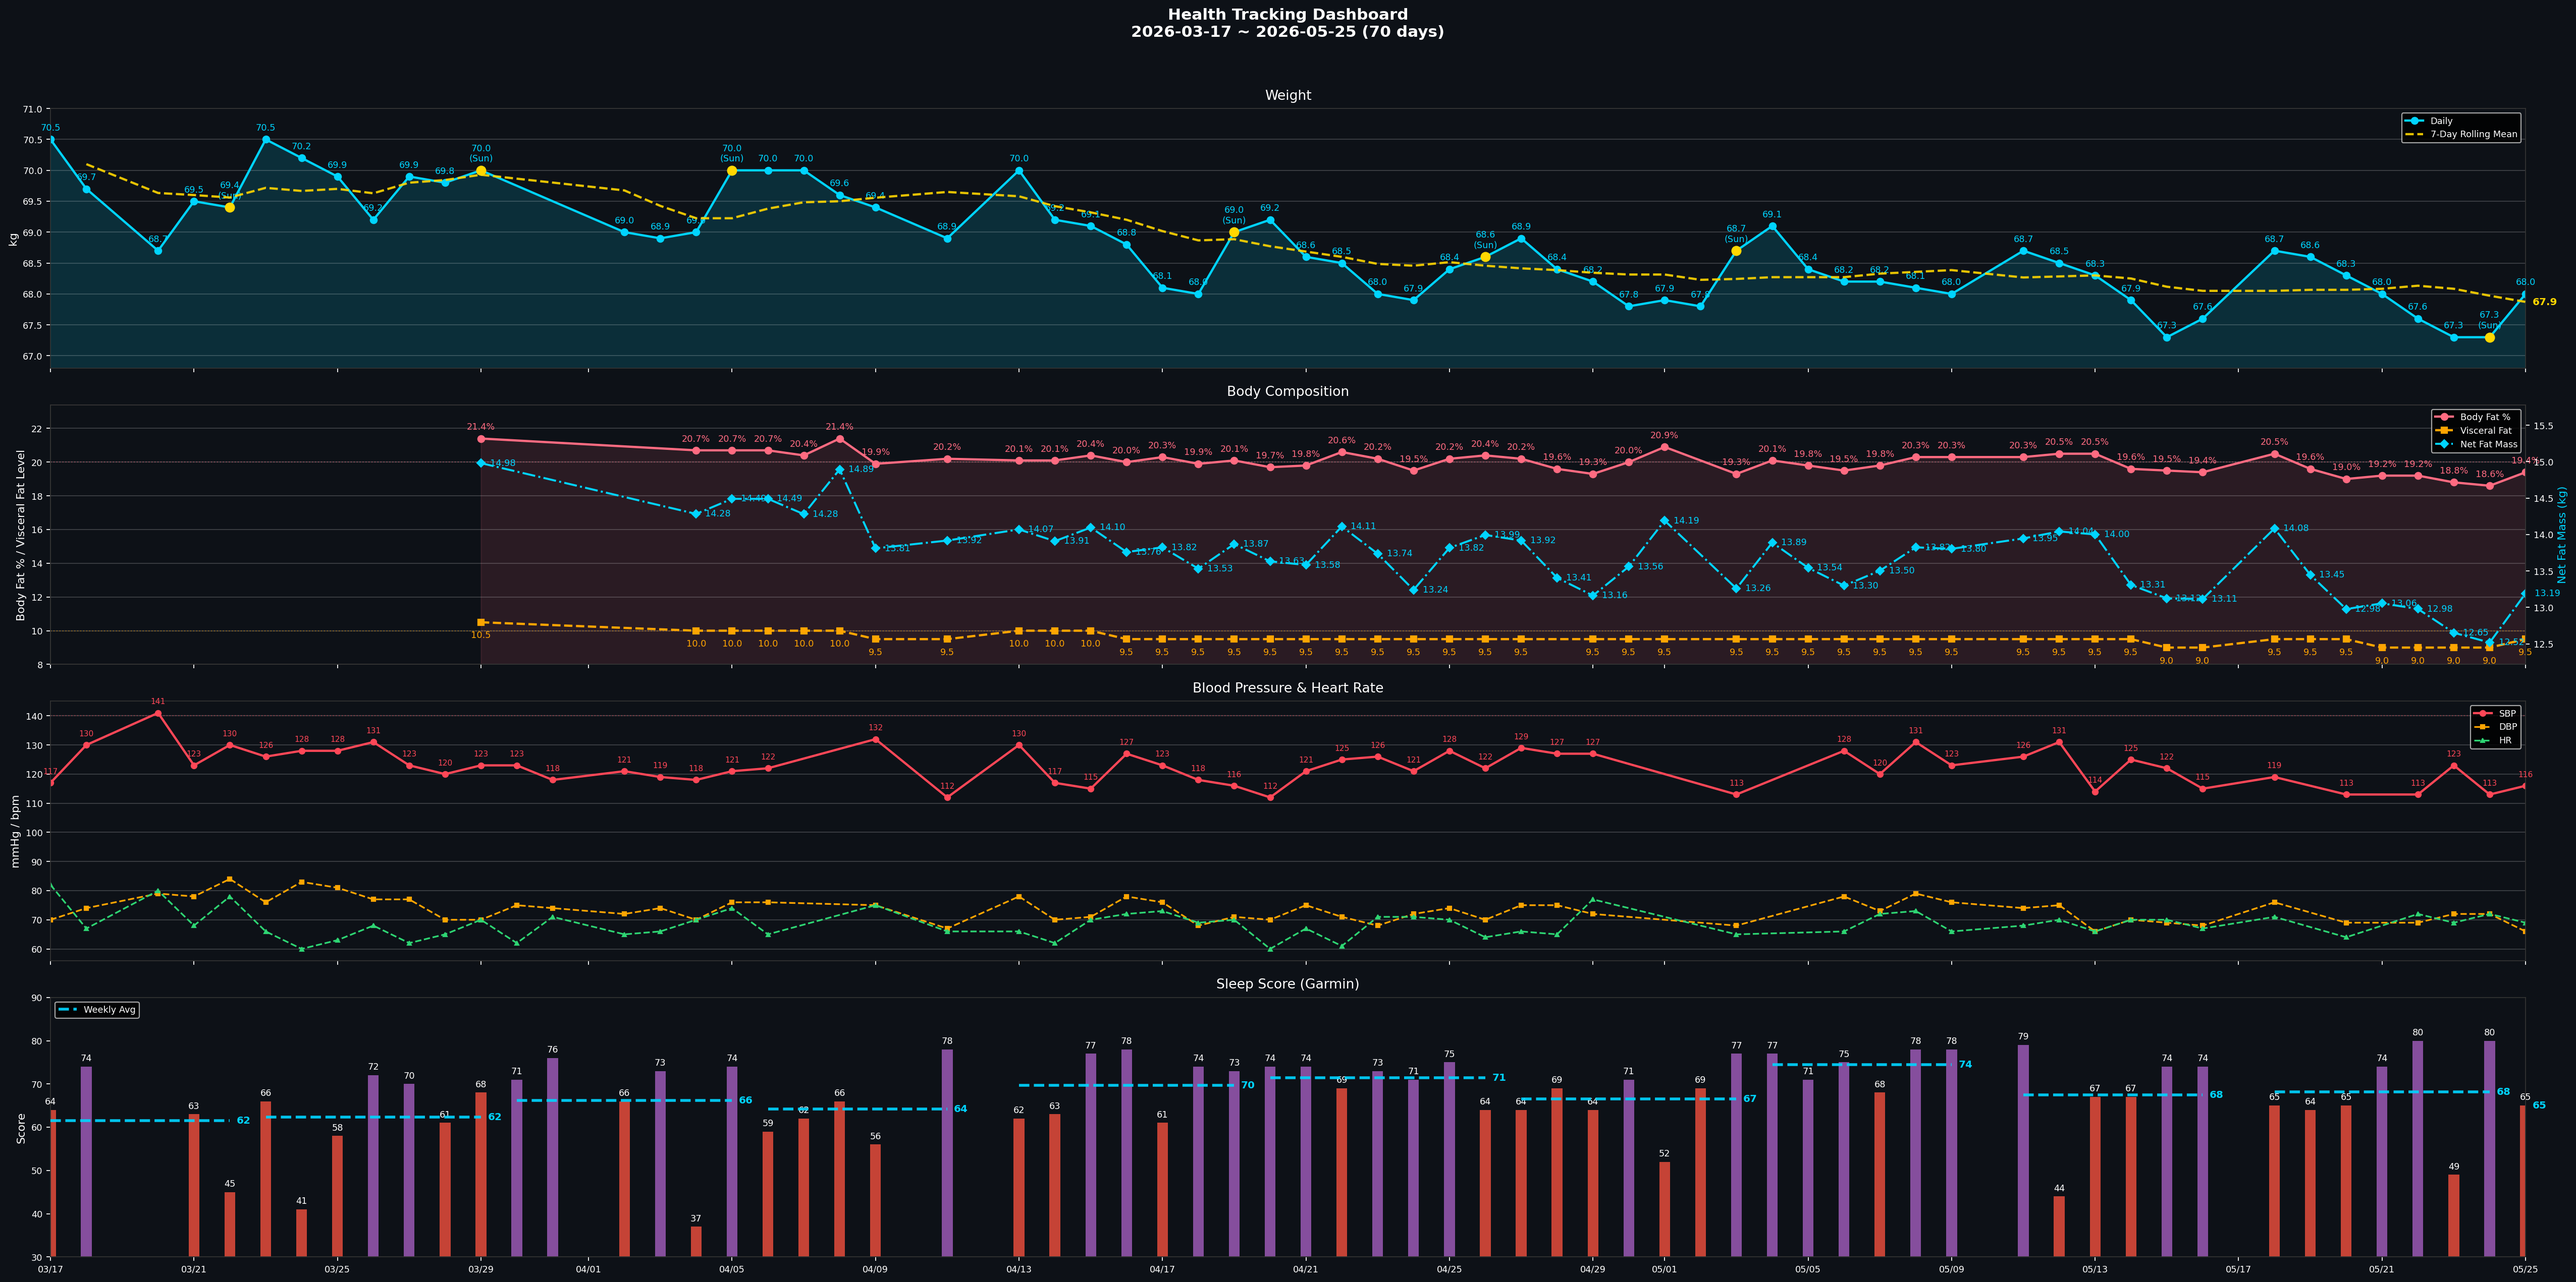
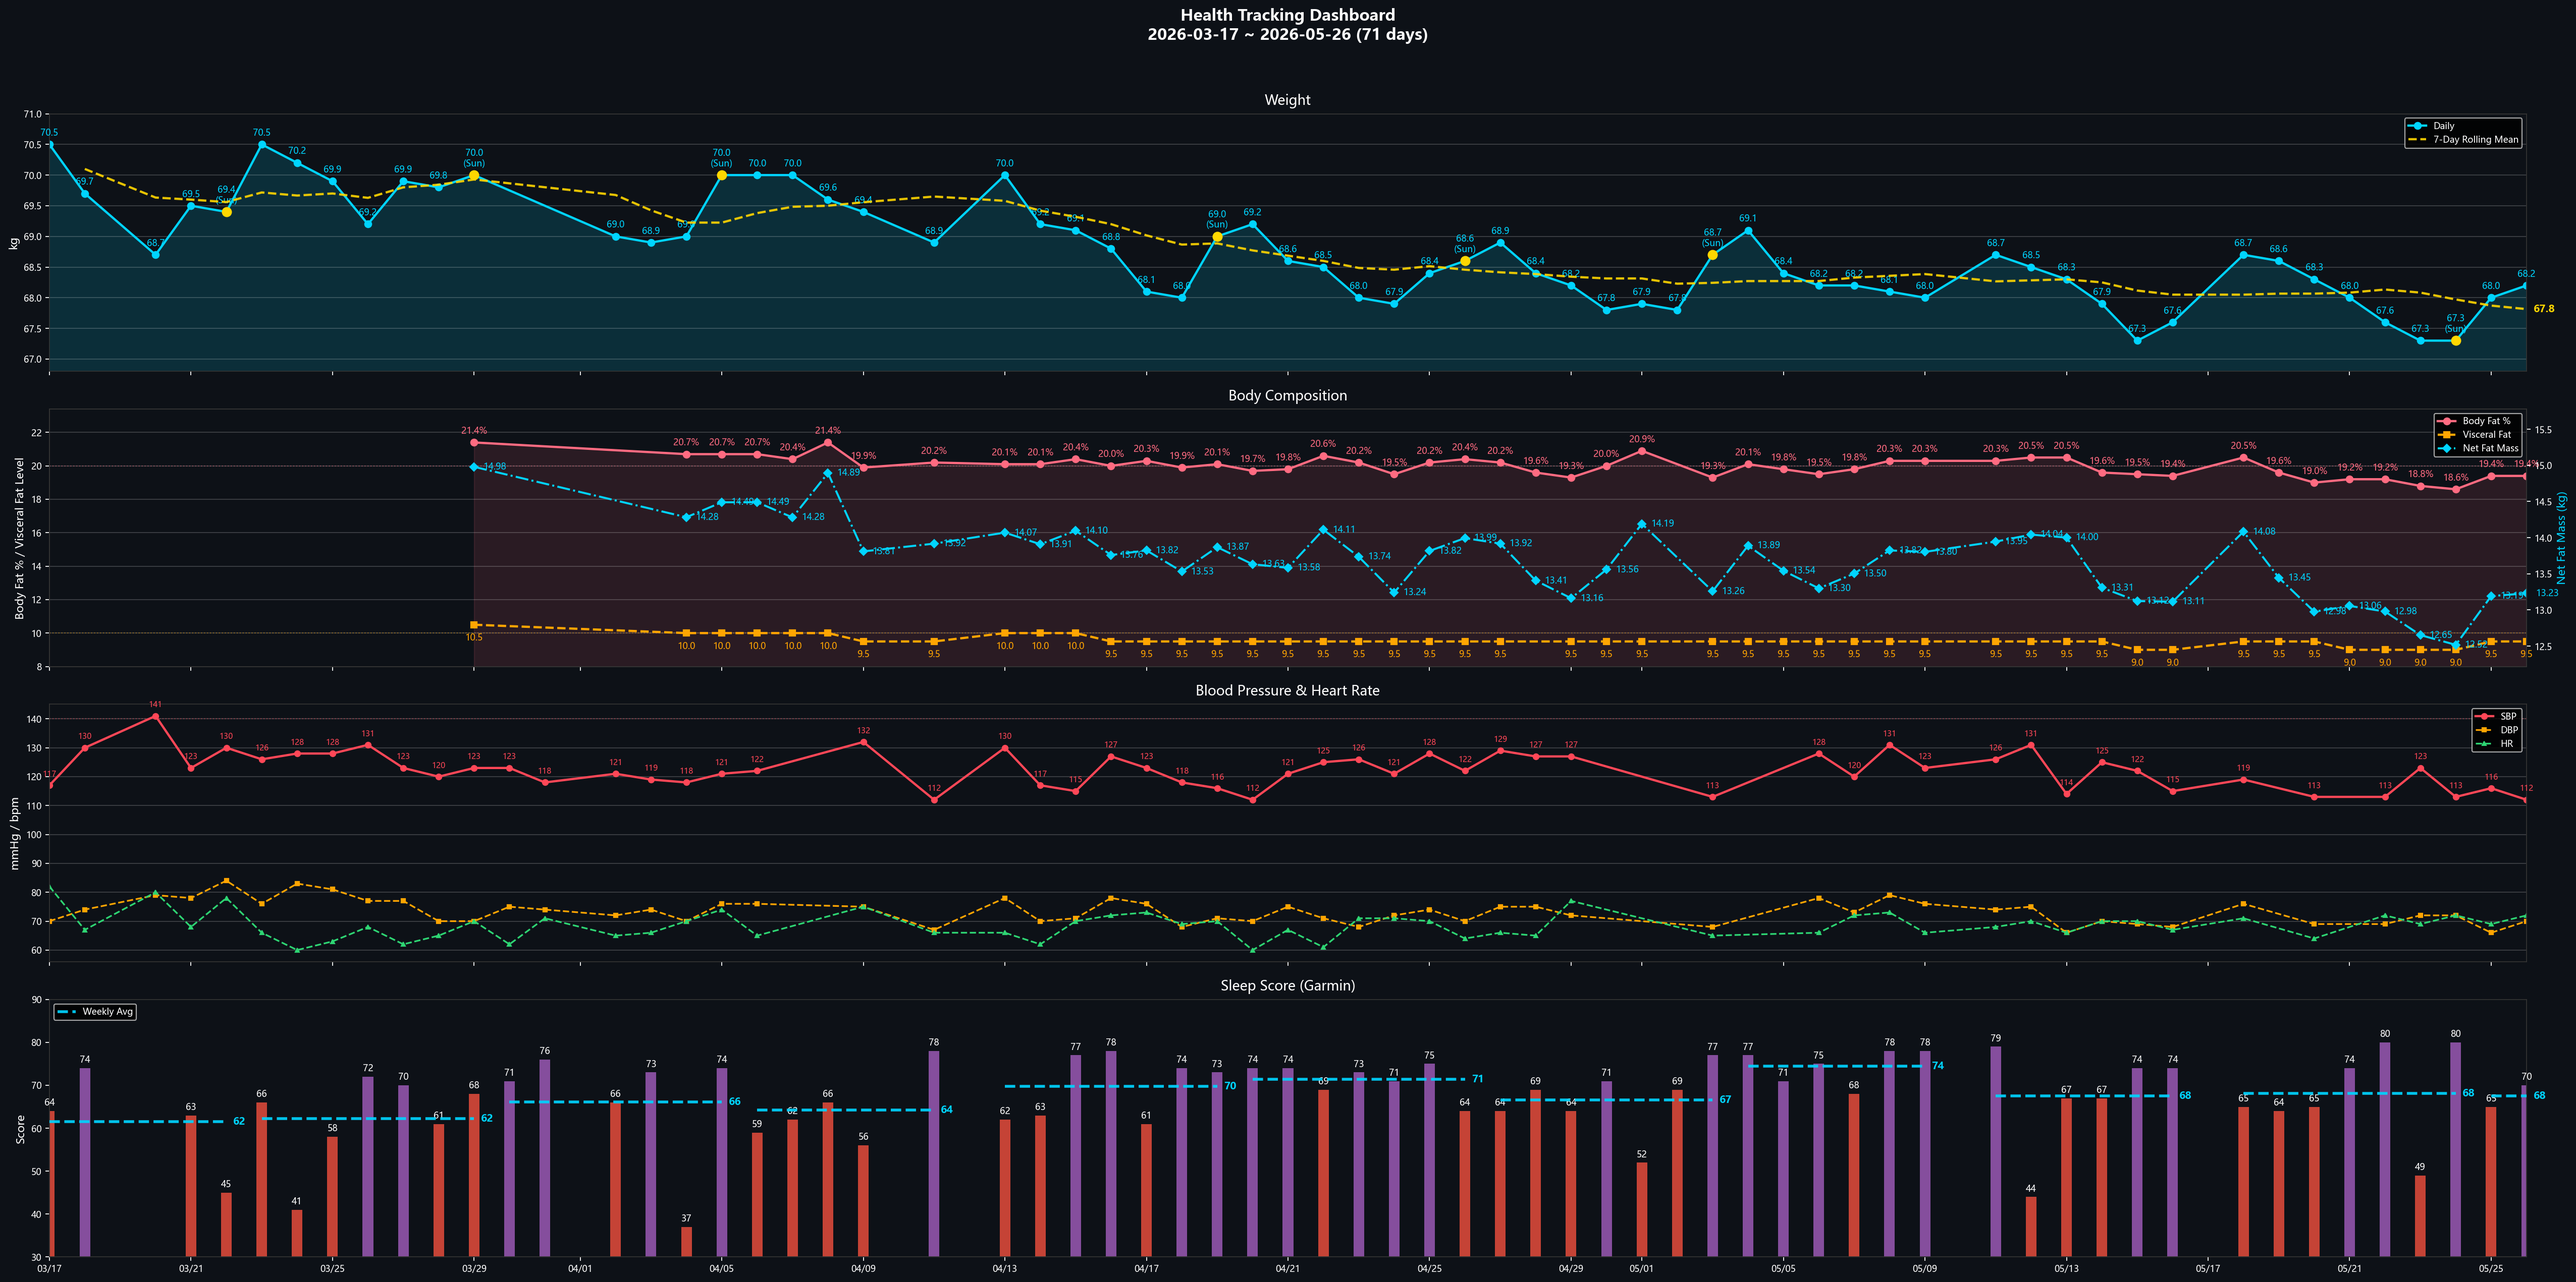
daily check-in 2026-05-26：體重 68.2kg、BP 112/70、Sleep 70
- 更新 daily/weekly W22 數據
- 修正 daily-command rule：移除過時 +8h 時鐘校正
- SpO2 近 7 晚 6/7 < 88%；記錄棉被窒悶行為性醒來
- 重生 dashboard、同步 data.js、月份歸檔

diff --git a/data.js b/data.js
@@ -14,8 +14,8 @@ window.HC_DATA = {
     lede:    { en: "Sleep, BP, lipids, uric acid — one shared metabolic root. Lifestyle stacks first; medication only after lifestyle plateaus.",
                zh: "睡眠、血壓、血脂、尿酸——共享同一個代謝根源。生活方式介入優先，等到效果平台期再考慮藥物。" },
     progressLbl: { en: "Weight progress · 70 → 65 kg", zh: "體重進度 · 70 → 65 公斤" },
-    progressMeta: { en: "Day 70 · 67.3 kg · Sat official (5/23)", zh: "第 70 天 · 67.3 公斤 · 週六正式（5/23）" },
-    startDate: { en: "Start date · Mar 17, 2026 · Last sync 5/25", zh: "起始日期 · 2026 年 3 月 17 日 · 最後同步 5/25" },
+    progressMeta: { en: "Day 71 · 67.3 kg · Sat official (5/23)", zh: "第 71 天 · 67.3 公斤 · 週六正式（5/23）" },
+    startDate: { en: "Start date · Mar 17, 2026 · Last sync 5/26", zh: "起始日期 · 2026 年 3 月 17 日 · 最後同步 5/26" },
     startWeight: 70,
     targetWeight: 65,
     currentWeight: 67.3,
@@ -44,13 +44,13 @@ window.HC_DATA = {
     {
       sys: "heart", name: { en: "Blood Pressure", zh: "血壓" },
       val: "116/72", unit: "mmHg",
-      delta: { en: "W21 weekly avg (5 days) · target met (<130) · last 116/66 (5/25)", zh: "W21 週均（5 天）· 已達標 (<130) · 最新 116/66 (5/25)" },
+      delta: { en: "W21 weekly avg (5 days) · target met (<130) · last 112/70 (5/26)", zh: "W21 週均（5 天）· 已達標 (<130) · 最新 112/70 (5/26)" },
       cadence: { en: "Daily · weekly avg", zh: "每日 · 週均" },
       status: "ok",
     },
     {
       sys: "sleep", name: { en: "Sleep Score", zh: "睡眠分數" },
-      val: "65", unit: "Garmin",
+      val: "70", unit: "Garmin",
       delta: { en: "5/4 · OSA flag: T90 18.4% (severe)", zh: "5/4 · OSA 紅旗：T90 18.4%（重度）" },
       cadence: { en: "Daily · Garmin", zh: "每日 · Garmin" },
       status: "warn",
@@ -918,14 +918,14 @@ window.HC_DATA = {
   tracker: {
     // [SBP, DBP] — gaps filled with prior reading
     bp: [
-      [126,74], [131,75], [114,66], [125,70], [122,69], [115,68], [119,76], [119,76], [113,69], [113,69], [113,69], [123,72], [113,72], [116,66],
+      [131,75], [114,66], [125,70], [122,69], [115,68], [119,76], [119,76], [113,69], [113,69], [113,69], [123,72], [113,72], [116,66], [112,70],
     ],
     // daily weight (kg)
-    weight: [68.7, 68.5, 68.3, 67.9, 67.3, 67.6, 68.7, 68.6, 68.3, 68, 67.6, 67.3, 67.3, 68],
+    weight: [68.5, 68.3, 67.9, 67.3, 67.6, 68.7, 68.6, 68.3, 68, 67.6, 67.3, 67.3, 68, 68.2],
     // Garmin Sleep Score
-    sleep:  [79, 44, 67, 67, 74, 74, 65, 64, 65, 74, 80, 49, 80, 65],
+    sleep:  [44, 67, 67, 74, 74, 65, 64, 65, 74, 80, 49, 80, 65, 70],
     // Body Battery waking
-    bb:     [55, 36, 42, 34, 51, 63, 48, 62, 54, 61, 56, 34, 59, 55],
+    bb:     [36, 42, 34, 51, 63, 48, 62, 54, 61, 56, 34, 59, 55, 53],
     // SpO2 nightly nadir % (last 14 days, parallel to bp/weight/sleep/bb).
     // Earlier nights null until sync_data_js.py backfills; banner only uses trailing values.
     spo2Nadir: [null, null, null, null, null, 84, 79, 87, 85, 84, 84, 86, 82, 84],

diff --git a/reviews/daily/2026-05-26.md b/reviews/daily/2026-05-26.md
@@ -1,0 +1,82 @@
+# 晨間健康紀錄 — 2026-05-26
+
+*3 分鐘。起床後立即完成。記錄，不分析。*
+
+---
+
+## 體重 / 體組成
+
+**今日：68.2 kg**
+**體脂率：19.4 %**
+**內臟脂肪等級：9.5**
+**腰圍 (WHO midpoint)： cm**
+**腰圍 (最大腹圍)： cm**
+
+*每週六早晨為正式體重紀錄（排尿後、進食前；連 5 個工作日後、週末大餐前的真實低點）。其他日可選填。*
+
+---
+
+## 血壓（晨間）
+
+*起床後 1 小時內，上完廁所、進食前。坐下安靜 5 分鐘，連量兩次取第二次。*
+
+| 次數 | 收縮壓 | 舒張壓 | 心率 |
+|------|--------|--------|------|
+| 第一次 | | | |
+| 第二次 | 112 | 70 | 72 |
+
+---
+
+## 睡眠狀態
+
+**Garmin 偵測入睡：** 21:40
+**實際起床：** 04:19
+**中途醒來：** 2 次以上｜原因：網路攝影機觀察到自己抓被子蓋身體、手舉高過程把自己悶在棉被裡，約 1 分鐘後驚醒（行為性窒悶，非單純夜尿/自然醒）
+**Garmin Sleep Score：** 70 / 100
+**Garmin Body Battery 起床值：** 53
+**主觀恢復感：** 3 / 5（1=極度疲憊, 5=精力充沛）
+
+### SpO2 夜間最低（7 晚趨勢）
+
+| 日期 | -6 | -5 | -4 | -3 | -2 | -1 | 今晨 |
+|------|----|----|----|----|----|----|------|
+| 日期 | 05-20 | 05-21 | 05-22 | 05-23 | 05-24 | 05-25 | 05-26 |
+| 最低 % | 84 | 83 | 79 | 81 | 78 | 89 | 87 |
+
+**今晨日均 SpO2：** 96%
+**< 88% 連續晚數：** 1（5/25 89% 中斷；惟近 7 晚有 6 晚 < 88%，OSA 風險背景仍高）
+
+**SpO2 全夜圖（含 hypnogram 條帶）：** ./spo2/spo2_desat_2026-05-26.png
+**SpO2 趨勢圖：** ./spo2/spo2_desat_trend.png
+**SpO2 全夜 Heatmap（Venu 4 cohort）：** ./spo2/spo2_heatmap_all_nights.png
+**SpO2 × 睡眠分期 7 晚疊圖：** ./spo2/spo2_hypnogram_7night_2026-05-26.png
+
+---
+
+## 昨日回顧
+
+**實際飲水量：** 1.80 L（目標 ≥ 2.5L；< 2.0L 警示）
+**昨日活動消耗：** ~43 kcal（cycling 4.2 min 含 BMR；day-level 步數 13,804，活動量充足但結構化運動偏少）
+
+---
+
+## 身體信號
+
+| 部位 | 性質 | 強度 (0-10) |
+|------|------|-------------|
+| — | 清 | 0 |
+
+---
+
+## 今日計畫速記
+
+- [ ] 飲水目標：2.5 L（錨點 09:30 ≥1.0L / 13:30 ≥2.0L / 17:00 截止 2.5L）
+- [ ] 補充品（核心 v2）：早餐 D3+K2+L-Citrulline+益生菌；午/晚餐前 Psyllium；晚餐後魚油 ×4；睡前鎂+酸櫻桃+Glycine
+- [ ] 運動（17:00）：有氧
+- [ ] 活動度/伸展（09:30 + 20:30）
+- [ ] Wind-down（20:00 燈光降 + 螢幕濾鏡，液體截止）；上床 21:30 / 熄燈 22:00
+- [ ] **睡眠安全**：調整棉被/睡姿，避免再度將被子覆蓋口鼻（行為性窒悶可能放大 SpO2 desat）
+
+---
+
+*Filed: reviews/daily/2026-05-26.md*

diff --git a/reviews/weekly/2026-W22.md b/reviews/weekly/2026-W22.md
@@ -31,9 +31,9 @@
 
 |  | 一 | 二 | 三 | 四 | 五 | 六 | 日 |
 |--|----|----|----|----|----|----|-----|
-| 體重 (kg) | 68.0 | | | | | | |
-| 體脂率 (%) | 19.4 | | | | | | |
-| 內臟脂肪 | 9.5 | | | | | | |
+| 體重 (kg) | 68.0 | 68.2 | | | | | |
+| 體脂率 (%) | 19.4 | 19.4 | | | | | |
+| 內臟脂肪 | 9.5 | 9.5 | | | | | |
 | **腰圍 WHO (cm)** | | | | | | | |
 | **腰圍 max (cm)** | | | | | | | |
 
@@ -52,7 +52,7 @@
 | 日期 | 收縮壓 | 舒張壓 | 心率 |
 |------|--------|--------|------|
 | 05-25 (一) | 116 | 66 | 69 |
-| 05-26 (二) | | | |
+| 05-26 (二) | 112 | 70 | 72 |
 | 05-27 (三) | | | |
 | 05-28 (四) | | | |
 | 05-29 (五) | | | |
@@ -70,7 +70,7 @@
 | 日期 | 就寢 | 起床 | 中途醒 | Sleep Score | Body Battery | 主觀恢復 |
 |------|------|------|--------|-------------|--------------|----------|
 | 05-25 (一) | 21:43 | 05:13 | 無 | 65 | 55 | 3 |
-| 05-26 (二) | | | | | | |
+| 05-26 (二) | 21:40 | 04:19 | 2次+ | 70 | 53 | 3 |
 | 05-27 (三) | | | | | | |
 | 05-28 (四) | | | | | | |
 | 05-29 (五) | | | | | | |
@@ -100,7 +100,7 @@
 
 | 信號（部位+性質） | 出現天數 | 平均強度 | 趨勢（↑↓→） | 備註 |
 |-------------------|----------|----------|-------------|------|
-| 清 | 1 | — | → | 05-25 無不適 |
+| 清 | 2 | — | → | 05-25、05-26 無不適 |
 
 **反覆出現（≥ 3 天）：** 無
 
@@ -124,6 +124,7 @@
 | 日期 | 運動內容（含組數/時間） |
 |------|------------------------|
 | 05-25 (一) | 重訓 |
+| 05-26 (二) | 有氧 |
 
 ---
 

diff --git a/templates/daily-command.md b/templates/daily-command.md
@@ -1,6 +1,6 @@
 開始今天的晨間健康紀錄。
 
-1. **確認日期**：執行 `TZ=Asia/Taipei date '+%Y-%m-%d %A %H:%M'` 取得系統時間，**自動 +8 小時**（此環境系統時鐘長期慢 8 小時，TZ flag 無效）後即為當前台灣時間。校正後若與使用者口頭告知或 context `currentDate` 一致則直接採用，無需再向使用者確認；不一致時才追問
+1. **確認日期**：執行 `date '+%Y-%m-%d %A %H:%M'` 取得系統時間即為當前台灣時間（系統時鐘已校正，**不需再 +8 小時**）。若與使用者口頭告知或 context `currentDate` 一致則直接採用，無需再向使用者確認；不一致時才追問
 2. **抓取昨夜 Garmin 資料**：Garmin `calendarDate` 以「起床日」歸檔，故昨夜睡眠 → calendarDate = 今日。
    - 先執行 `python scripts/sync_garmin_daily.py`（預設抓今日，即昨夜睡眠 + 今晨 SpO2）
    - 再執行 `python scripts/sync_garmin_daily.py --days-back 1`（抓昨日，取得昨日全日飲水、步數等 day-level 總量供「昨日回顧」區塊）

diff --git a/reports/daily-garmin/2026-05-26.md b/reports/daily-garmin/2026-05-26.md
@@ -1,0 +1,33 @@
+# Garmin 每日摘要 — 2026-05-26
+
+## 睡眠
+- 就寢：21:40｜起床：04:19
+- 總時長：6h 7m
+- 深眠：96 分｜REM：36 分
+- Sleep Score：70
+- Body Battery 起床值：53
+
+## 靜息心率
+- RHR：63.0 bpm
+
+## 壓力
+- 日均：25
+
+## 步數
+- 總計：322
+
+## SpO2
+- 日均：96.0%
+- 最低：87%
+
+## 活動
+| 時段 | 類型 | 距離 | 時長 | 平均 HR | 最大 HR | 主動 kcal | 含 BMR |
+|------|------|------|------|---------|---------|-----------|--------|
+| 08:59 | cycling | 1.02 km | 5.9 min | 118 | 136 | 42 | 50 |
+
+## 飲水
+- 實際：0.00 L
+- 目標：2.00 L
+- 運動流汗耗水：0.09 L
+
+_Source: data/garmin/2026-05-26.json (gitignored)_

diff --git a/reports/daily-garmin/2026-05-25.md b/reports/daily-garmin/2026-05-25.md
@@ -11,17 +11,23 @@
 - RHR：59.0 bpm
 
 ## 壓力
-- 日均：30
+- 日均：31
 
 ## 步數
-- 總計：3,762
+- 總計：13,804
 
 ## SpO2
-- 日均：—%
-- 最低：99%
+- 日均：95.0%
+- 最低：89%
+
+## 活動
+| 時段 | 類型 | 距離 | 時長 | 平均 HR | 最大 HR | 主動 kcal | 含 BMR |
+|------|------|------|------|---------|---------|-----------|--------|
+| 16:53 | cycling | 0.92 km | 4.2 min | 134 | 143 | 37 | 43 |
 
 ## 飲水
-- 實際：— （Garmin Connect 未紀錄，請於 check-in 手動輸入）
+- 實際：1.80 L
 - 目標：2.00 L
+- 運動流汗耗水：0.07 L
 
 _Source: data/garmin/2026-05-25.json (gitignored)_
